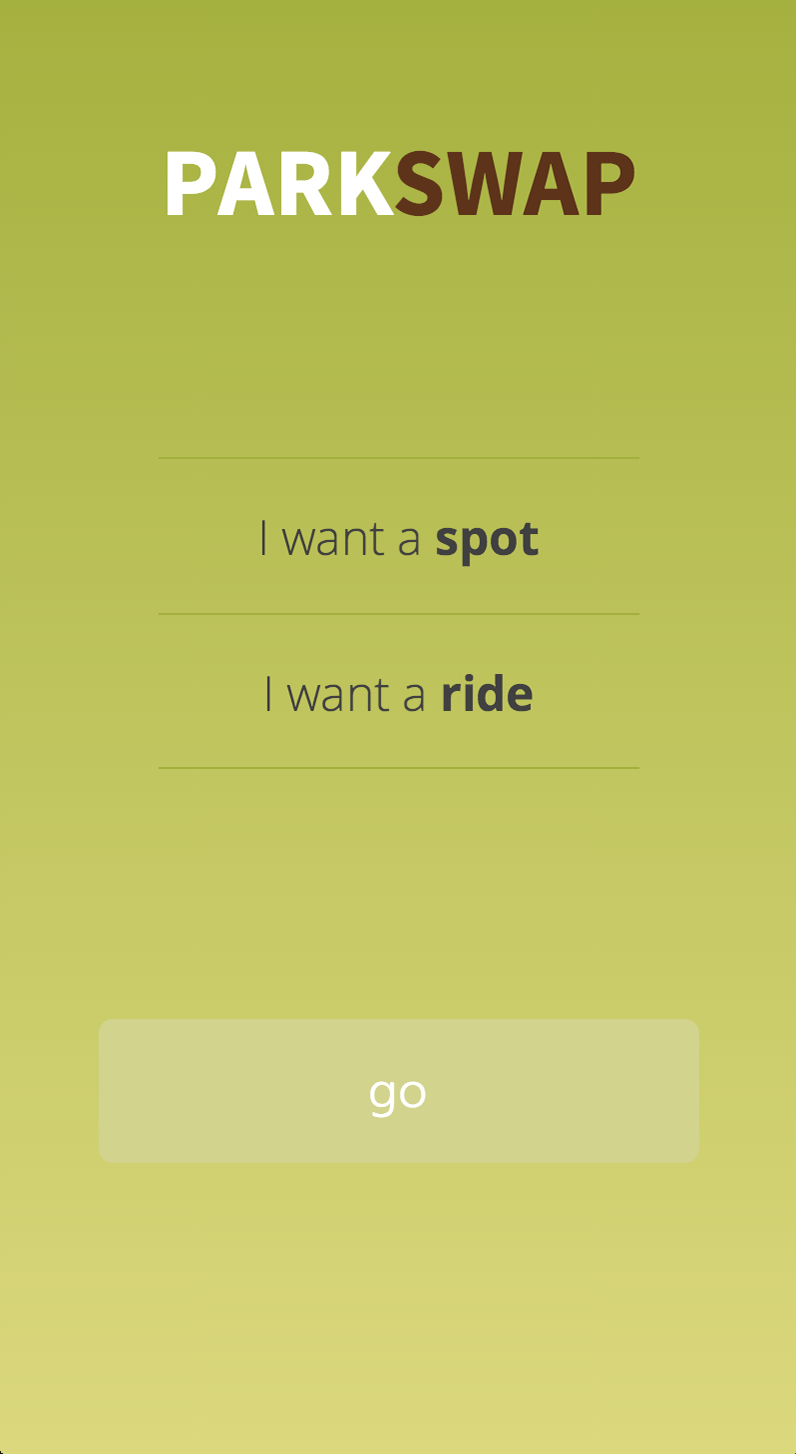
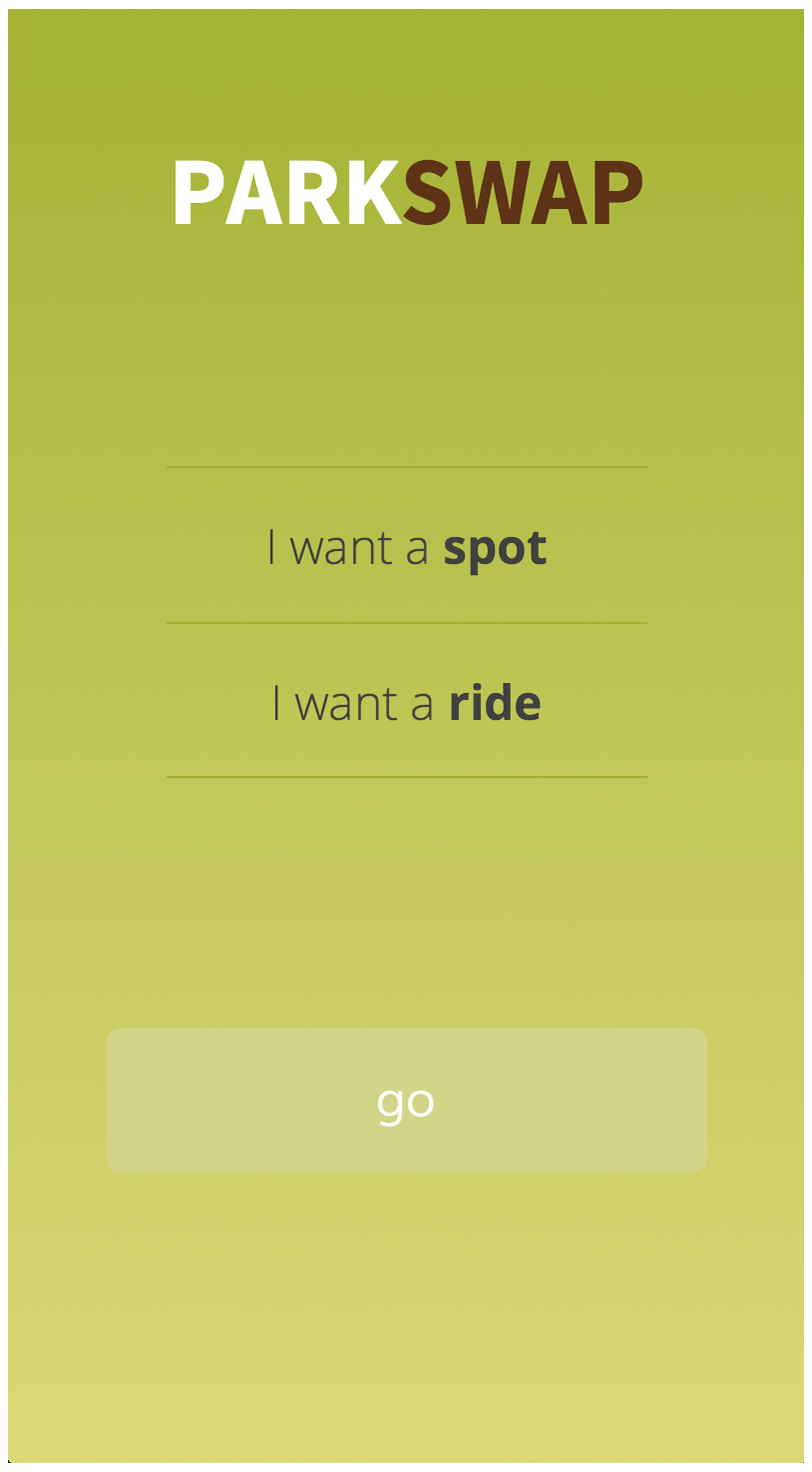
add transparency to mimic padding

diff --git a/README.md b/README.md
@@ -75,12 +75,12 @@ Deployment
 Screenshots
 -----------
 
-<img src="/screens/login.png" height="33%" width="33%" style="float: left;"></img>
-<img src="/screens/main.png" height="33%" width="33%" style="float: left;"></img>
-<img src="/screens/where.png" height="33%" width="33%" style="float: left;"></img>
-<img src="/screens/wait.png" height="33%" width="33%" style="float: left;"></img>
-<img src="/screens/list.png" height="33%" width="33%" style="float: left;"></img>
-<img src="/screens/pickup.png" height="33%" width="33%" style="float: left;"></img>
+<img src="/screens/login.png" height="33%" width="33%" style="padding: 3px;"></img>
+<img src="/screens/main.png" height="33%" width="33%" style=""></img>
+<img src="/screens/where.png" height="33%" width="33%" style=""></img>
+<img src="/screens/wait.png" height="33%" width="33%" style=""></img>
+<img src="/screens/list.png" height="33%" width="33%" style=""></img>
+<img src="/screens/pickup.png" height="33%" width="33%" style=""></img>
 
 Credits
 -------
